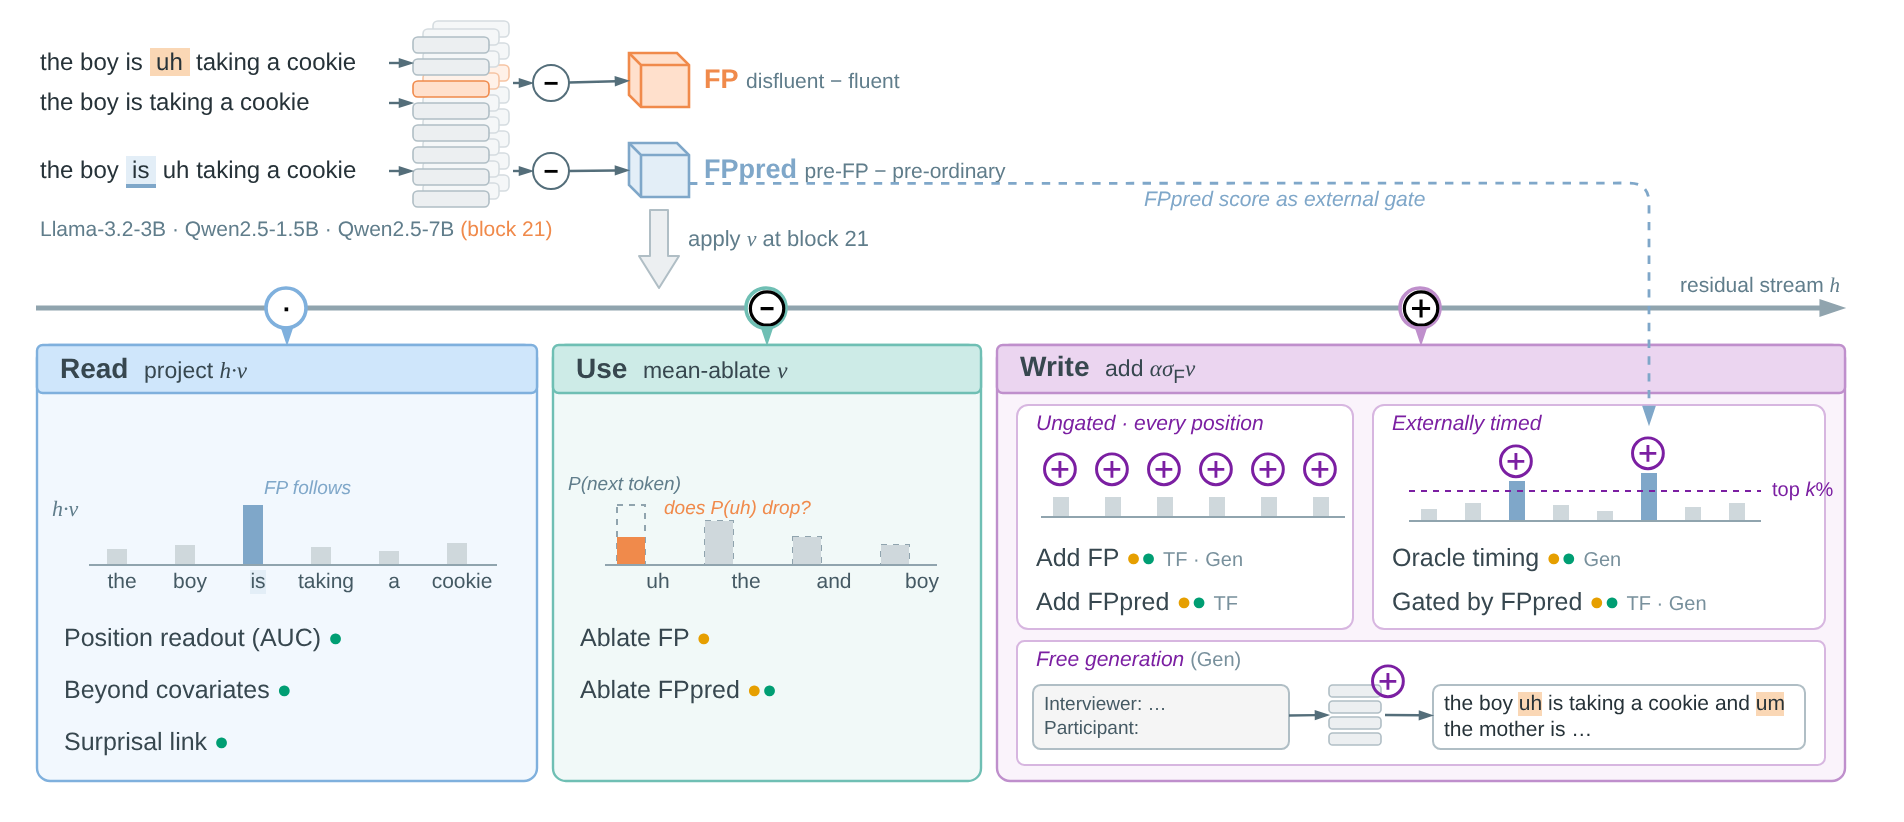
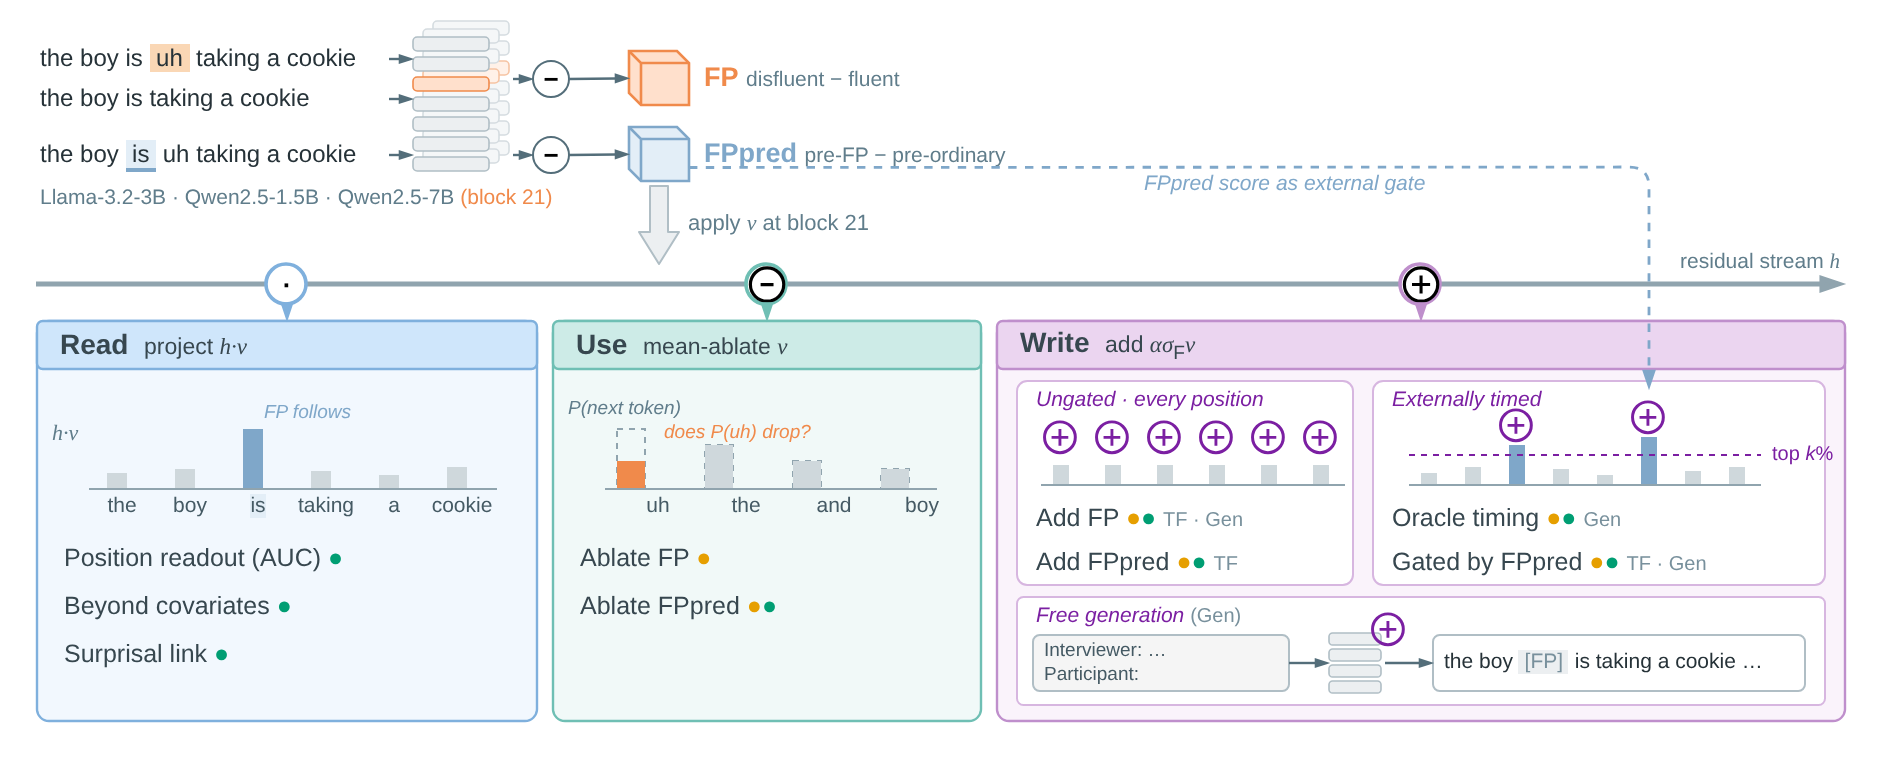
Overview figure: FP placeholder in generation example, tighter layout
Claude-Session: https://claude.ai/code/session_01Nr8f45fQSeuNoeBXRTJGZT

diff --git a/figures/gen_overview.py b/figures/gen_overview.py
@@ -19,8 +19,12 @@ FONT = "fontFamily=Helvetica;"
 TXT = "text;html=1;strokeColor=none;fillColor=none;whiteSpace=wrap;" + FONT
 
 
+DY = [0]
+
+
 def v(value, x, y, w, h, style, cid=None):
     cid = cid or nid()
+    y += DY[0]
     cells.append(
         f'<mxCell id="{cid}" value="{q(value)}" style="{style}" vertex="1" parent="1">'
         f'<mxGeometry x="{x}" y="{y}" width="{w}" height="{h}" as="geometry"/></mxCell>')
@@ -36,6 +40,9 @@ def e(src=None, tgt=None, style="", pts=None, sp=None, tp=None, value="", lstyle
     s = f' source="{src}"' if src else ""
     t = f' target="{tgt}"' if tgt else ""
     geo = ""
+    sp = sp and (sp[0], sp[1] + DY[0])
+    tp = tp and (tp[0], tp[1] + DY[0])
+    pts = pts and [(a, b + DY[0]) for a, b in pts]
     if sp:
         geo += f'<mxPoint x="{sp[0]}" y="{sp[1]}" as="sourcePoint"/>'
     if tp:
@@ -71,7 +78,7 @@ def tab(label, x, y, w):
 
 
 
-W, H = 920, 406
+W, H = 920, 362
 DARK = "#37474F"
 NOTE = "#607D8B"
 GREY_BAR = "#CFD8DC"
@@ -87,46 +94,47 @@ def hline(x0, x1, y, style):
 
 # ======================= (a) Directions (compact) =======================
 uh = f'<span style="background-color:{FPHL}">&nbsp;uh&nbsp;</span>'
-s1 = text(f"the boy is {uh} taking a cookie", 8, 30, 176, 18, 12)
-s2 = text("the boy is taking a cookie", 8, 50, 176, 18, 12)
+s1 = text(f"the boy is {uh} taking a cookie", 8, 20, 176, 18, 12)
+s2 = text("the boy is taking a cookie", 8, 40, 176, 18, 12)
 pre = f'<span style="background-color:{COOL_F};border-bottom:2px solid {COOL_S}">&nbsp;is&nbsp;</span>'
-s3 = text(f"the boy {pre} uh taking a cookie", 8, 84, 176, 18, 12)
+s3 = text(f"the boy {pre} uh taking a cookie", 8, 68, 176, 18, 12)
 
-sx, sy, sw = 196, 26, 38
+sx, sy, sw = 196, 18, 38
 for k, (ox_, oy_) in enumerate(((10, -8), (5, -4), (0, 0))):
     front = k == 2
-    for i in range(8):
+    for i in range(7):
         hl = i == 2
         fill = ('#FFE0CC' if hl else '#ECEFF1') if front else ('#FFF1E8' if hl else '#F5F7F8')
         stroke = ('#F08A4B' if hl else '#B0BEC5') if front else ('#F6C3A2' if hl else '#D5DCE0')
-        v("", sx + ox_, sy + oy_ + i * 11, sw, 8,
+        v("", sx + ox_, sy + oy_ + i * 10, sw, 7,
           f"rounded=1;arcSize=30;html=1;strokeWidth=0.8;fillColor={fill};strokeColor={stroke};")
 text(f"Llama-3.2-3B · Qwen2.5-1.5B · Qwen2.5-7B <font color='#F08A4B'>(block 21)</font>",
-     8, 116, 300, 14, 10.5, NOTE)
-for s, y in ((s1, 39), (s2, 59), (s3, 93)):
+     8, 92, 300, 14, 10.5, NOTE)
+for s, y in ((s1, 29), (s2, 49), (s3, 77)):
     e(s, None, FLOW, tp=(sx, y))
-m1 = v("−", 256, 40, 18, 18, "ellipse;html=1;fillColor=#FFFFFF;strokeColor=#546E7A;fontSize=13;fontStyle=1;" + FONT)
-m2 = v("−", 256, 84, 18, 18, "ellipse;html=1;fillColor=#FFFFFF;strokeColor=#546E7A;fontSize=13;fontStyle=1;" + FONT)
-e(None, m1, FLOW, sp=(sx + sw + 12, 49))
-e(None, m2, FLOW, sp=(sx + sw + 12, 93))
-c1 = v("", 304, 34, 30, 27, f"shape=cube;size=6;html=1;fillColor={WARM_F};strokeColor={WARM_S};strokeWidth=1.3;")
-c2 = v("", 304, 79, 30, 27, f"shape=cube;size=6;html=1;fillColor={COOL_F};strokeColor={COOL_S};strokeWidth=1.3;")
+m1 = v("−", 256, 30, 18, 18, "ellipse;html=1;fillColor=#FFFFFF;strokeColor=#546E7A;fontSize=13;fontStyle=1;" + FONT)
+m2 = v("−", 256, 68, 18, 18, "ellipse;html=1;fillColor=#FFFFFF;strokeColor=#546E7A;fontSize=13;fontStyle=1;" + FONT)
+e(None, m1, FLOW, sp=(sx + sw + 12, 39))
+e(None, m2, FLOW, sp=(sx + sw + 12, 77))
+c1 = v("", 304, 25, 30, 27, f"shape=cube;size=6;html=1;fillColor={WARM_F};strokeColor={WARM_S};strokeWidth=1.3;")
+c2 = v("", 304, 63, 30, 27, f"shape=cube;size=6;html=1;fillColor={COOL_F};strokeColor={COOL_S};strokeWidth=1.3;")
 e(m1, c1, FLOW)
 e(m2, c2, FLOW)
-text(f"<b>FP</b> <font style='font-size:10.5px' color='{NOTE}'>disfluent − fluent</font>", 340, 34, 150, 27, 13.5, WARM_S)
-text(f"<b>FPpred</b> <font style='font-size:10.5px' color='{NOTE}'>pre-FP − pre-ordinary</font>", 340, 79, 170, 27, 13.5, COOL_S)
+text(f"<b>FP</b> <font style='font-size:10.5px' color='{NOTE}'>disfluent − fluent</font>", 340, 25, 150, 27, 13.5, WARM_S)
+text(f"<b>FPpred</b> <font style='font-size:10.5px' color='{NOTE}'>pre-FP − pre-ordinary</font>", 340, 63, 170, 27, 13.5, COOL_S)
 
 # (a) -> (b)
 e(None, None, "shape=flexArrow;endArrow=classic;html=1;fillColor=#ECEFF1;strokeColor=#B0BEC5;width=9;endSize=5;endWidth=10;",
-  sp=(319, 112), tp=(319, 152))
-text(f"apply {serif('v')} at block 21", 332, 120, 150, 16, 11, NOTE)
+  sp=(319, 92), tp=(319, 132))
+text(f"apply {serif('v')} at block 21", 332, 104, 150, 16, 11, NOTE)
 
 # ======================= (b) Read / Use / Write =======================
+DY[0] = -20
 stream_y = 162
 e(None, None, "endArrow=blockThin;endFill=1;strokeColor=#90A4AE;strokeWidth=2.4;", sp=(8, stream_y), tp=(912, stream_y))
 text(f"residual stream {serif('h')}", 800, stream_y - 18, 112, 14, 10.5, NOTE, "right")
 
-top, bot = 180, 398
+top, bot = 180, 380
 cols = [
     ("Read", 8, 250, "#F2F8FE", "#CFE6FB", "#7FB0DD", "·", f"project {serif('h·v')}"),
     ("Use", 266, 214, "#F1F9F8", "#CDEBE7", "#6FBFB4", "⊖", f"mean-ablate {serif('v')}"),
@@ -161,7 +169,7 @@ def word_strip(x0, y, words, dx, hl=None, size=10.5):
 # ---- Read glyph: projection score per position, pre-FP position stands out
 rx, rw = pos["Read"]
 words = ["the", "boy", "is", "taking", "a", "cookie"]
-base, dx, gx = 290, 34, rx + 26
+base, dx, gx = 264, 34, rx + 26
 scores = [8, 10, 30, 9, 7, 11]
 for i, sc in enumerate(scores):
     bar(gx + i * dx + 9, base, sc, COOL_S if i == 2 else GREY_BAR, w=10)
@@ -169,12 +177,12 @@ hline(gx, gx + 6 * dx, base, "strokeColor=#90A4AE;strokeWidth=1;")
 word_strip(gx, base + 2, words, dx, hl=2)
 text(f"<i>FP follows</i>", gx + 2 * dx + 18, base - 44, 70, 12, 9.5, COOL_S)
 text(f"{serif('h·v')}", rx + 6, base - 34, 22, 14, 11, NOTE)
-items(rx + 12, 318, rw - 16, [f"Position readout (AUC) {P}", f"Beyond covariates {P}", f"Surprisal link {P}"], dy=26)
+items(rx + 12, 290, rw - 16, [f"Position readout (AUC) {P}", f"Beyond covariates {P}", f"Surprisal link {P}"], dy=24)
 
 # ---- Use glyph: next-token distribution before (outline) / after (filled)
 ux, uw = pos["Use"]
 cands = ["uh", "the", "and", "boy"]
-base, dx, gx = 290, 44, ux + 32
+base, dx, gx = 264, 44, ux + 32
 before = [30, 22, 14, 10]
 after = [14, 22, 14, 10]
 for i, (b0, b1) in enumerate(zip(before, after)):
@@ -185,27 +193,27 @@ hline(gx - 6, gx + 4 * dx - 16, base, "strokeColor=#90A4AE;strokeWidth=1;")
 word_strip(gx + 7 - 8, base + 2, cands, dx, size=10.5)
 text("<i>P(next token)</i>", ux + 6, base - 46, 90, 12, 9.5, NOTE)
 text("<i>does P(uh) drop?</i>", gx + 22, base - 34, 100, 12, 9.5, WARM_S)
-items(ux + 12, 318, uw - 16, [f"Ablate FP {R}", f"Ablate FPpred {R}{P}"], dy=26)
+items(ux + 12, 290, uw - 16, [f"Ablate FP {R}", f"Ablate FPpred {R}{P}"], dy=24)
 
 # ---- Write: two sub-panels with their own glyphs
 wx, ww = pos["Write"]
 ug = (wx + 10, 168)
 et = (wx + 188, ww - 198)
 for (bx, bw), title in ((ug, "Ungated · every position"), (et, "Externally timed")):
-    v("", bx, 210, bw, 112, "rounded=1;arcSize=5;html=1;fillColor=#FFFFFF;strokeColor=#D7B6E0;")
+    v("", bx, 210, bw, 102, "rounded=1;arcSize=5;html=1;fillColor=#FFFFFF;strokeColor=#D7B6E0;")
     text(f"<i>{title}</i>", bx + 8, 212, bw - 10, 16, 10.5, "#7B1FA2")
 
 # ungated glyph: ⊕ above every position
-base, dx, gx = 266, 26, ug[0] + 18
+base, dx, gx = 262, 26, ug[0] + 18
 for i in range(6):
     x = gx + i * dx
     bar(x, base, 10, GREY_BAR, w=8)
     text("⊕", x - 4, base - 30, 16, 14, 12, "#7B1FA2", "center", "fontStyle=1;")
 hline(gx - 6, gx + 6 * dx - 10, base, "strokeColor=#90A4AE;strokeWidth=1;")
-items(ug[0] + 8, 278, ug[1] - 10, [f"Add FP {R}{P} {tag('TF · Gen')}", f"Add FPpred {R}{P} {tag('TF')}"], dy=22)
+items(ug[0] + 8, 270, ug[1] - 10, [f"Add FP {R}{P} {tag('TF · Gen')}", f"Add FPpred {R}{P} {tag('TF')}"], dy=22)
 
 # externally timed glyph: position scores, threshold, ⊕ only above it
-base, dx, gx = 268, 22, et[0] + 24
+base, dx, gx = 262, 22, et[0] + 24
 scores = [6, 9, 20, 8, 5, 24, 7, 9]
 for i, sc in enumerate(scores):
     x = gx + i * dx
@@ -218,32 +226,32 @@ hline(gx - 6, gx + 8 * dx - 6, base, "strokeColor=#90A4AE;strokeWidth=1;")
 hline(gx - 6, gx + 8 * dx - 6, thr, "dashed=1;strokeColor=#7B1FA2;strokeWidth=1;")
 text("top <i>k</i>%", gx + 8 * dx - 2, thr - 7, 40, 14, 10, "#7B1FA2")
 gate_x = gx + 5 * dx + 4
-items(et[0] + 8, 278, et[1] - 10, [
+items(et[0] + 8, 270, et[1] - 10, [
     f"Oracle timing {R}{P} {tag('Gen')}",
     f"Gated by FPpred {R}{P} {tag('TF · Gen')}",
 ], dy=22)
 
 
 # free generation strip: prompt -> steered LM -> description with fillers
-gy, gh = 328, 62
+gy, gh = 318, 54
 v("", wx + 10, gy, ww - 20, gh, "rounded=1;arcSize=6;html=1;fillColor=#FFFFFF;strokeColor=#D7B6E0;")
 text(f"<i>Free generation</i> {tag('(Gen)')}", wx + 18, gy + 2, 160, 16, 10.5, "#7B1FA2")
-p_chip = v("Interviewer: …<br>Participant:", wx + 18, gy + 22, 128, 32,
+p_chip = v("Interviewer: …<br>Participant:", wx + 18, gy + 19, 128, 28,
            "rounded=1;arcSize=12;html=1;fillColor=#F5F5F5;strokeColor=#B0BEC5;fontSize=9.5;fontColor=#455A64;align=left;spacingLeft=4;whiteSpace=wrap;" + FONT)
-lx, ly = wx + 166, gy + 22
+lx, ly = wx + 166, gy + 18
 for i in range(4):
     v("", lx, ly + i * 8, 26, 6, "rounded=1;arcSize=30;html=1;strokeWidth=0.8;fillColor=#ECEFF1;strokeColor=#B0BEC5;")
 text("⊕", lx + 22, ly - 8, 16, 14, 12, "#7B1FA2", "center", "fontStyle=1;")
 e(p_chip, None, FLOW, tp=(lx, ly + 15))
 fp = lambda w_: f'<span style="background-color:{FPHL}">{w_}</span>'
-o_chip = v(f"the boy {fp('uh')} is taking a cookie and {fp('um')} the mother is …", lx + 52, gy + 22, ww - 20 - (lx + 52 - wx - 10) - 10, 32,
+o_chip = v(f"the boy <span style='background-color:#ECEFF1;color:#78909C'>&nbsp;[FP]&nbsp;</span> is taking a cookie …", lx + 52, gy + 19, ww - 20 - (lx + 52 - wx - 10) - 10, 28,
            "rounded=1;arcSize=12;html=1;fillColor=#FFFFFF;strokeColor=#B0BEC5;fontSize=10.5;fontColor=#263238;align=left;spacingLeft=4;whiteSpace=wrap;" + FONT)
 e(None, o_chip, FLOW, sp=(lx + 28, ly + 15))
 
 # external gate: FPpred direction -> scores in the timed panel
 e(c2, None, f"endArrow=blockThin;endFill=1;dashed=1;strokeColor={COOL_S};strokeWidth=1.4;exitX=1;exitY=0.75;",
-  pts=[(gate_x, 99)], tp=(gate_x, base - 30 - 18))
-text("FPpred score as external gate", 560, 101, 190, 14, 10.5, COOL_S, "left", "fontStyle=2;")
+  pts=[(gate_x, 83 + 20)], tp=(gate_x, base - 30 - 18))
+text("FPpred score as external gate", 560, 85 + 20, 190, 14, 10.5, COOL_S, "left", "fontStyle=2;")
 
 xml = ('<mxfile host="drawio"><diagram id="overview" name="Overview">'
        f'<mxGraphModel dx="{W}" dy="{H}" grid="0" gridSize="10" guides="1" tooltips="1" connect="1" arrows="1" '

diff --git a/figures/overview_prompt.md b/figures/overview_prompt.md
@@ -125,3 +125,8 @@ Write 栏挂钩前放门控菱形 `FPpred high?`，接收来自 ② 的 `externa
 
 - 三个模型：LM 画成三层错位叠放的层叠块，下方一行写明 Llama-3.2-3B · Qwen2.5-1.5B · Qwen2.5-7B (block 21)。
 - Write 栏底部新增 Free generation 条：prompt → 注入 ⊕ 的 LM → 含 uh/um 的生成描述。
+
+## 11. v7 修订
+
+- 自由生成示例改为灰色 `[FP]` 占位。
+- 整体压缩：上方例句区收紧，(b) 上移，宽高比约 2.5:1。
